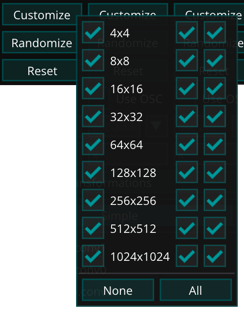
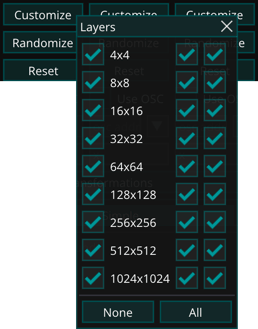
feat: add a title bar with a close button to the layer grid

Changed region(s): [[0.0, 0.0, 1.0, 1.0]]

diff --git a/widgets/adjuster_widget.py b/widgets/adjuster_widget.py
@@ -11,7 +11,7 @@ import threading
 import imgui
 import torch
 
-from assets import ACTIVE_RED
+from assets import ACTIVE_RED, OPAQUEGREEN
 
 try:
     import cPickle as pickle
@@ -343,7 +343,17 @@ class AdjusterWidget:
 
     def _zone_popup(self, i, enabled):
         slot = self.slots[i]
-        if not imgui.begin_popup(f"zone_layers{i}"):
+        mouse = imgui.get_mouse_position()
+        imgui.set_next_window_position(mouse.x, mouse.y,
+                                       condition=imgui.APPEARING)
+        imgui.push_style_color(imgui.COLOR_TITLE_BACKGROUND, *OPAQUEGREEN)
+        imgui.push_style_color(imgui.COLOR_TITLE_BACKGROUND_ACTIVE, *OPAQUEGREEN)
+        imgui.push_style_color(imgui.COLOR_TITLE_BACKGROUND_COLLAPSED, *OPAQUEGREEN)
+        opened, visible = imgui_utils.begin_popup_modal(
+            f"Layers##zone{i}", visible=True,
+            flags=imgui.WINDOW_NO_RESIZE | imgui.WINDOW_ALWAYS_AUTO_RESIZE)
+        imgui.pop_style_color(3)
+        if not opened:
             return
         num_ws = max(1, self._current_num_ws())
         labels = block_labels(num_ws)
@@ -354,6 +364,7 @@ class AdjusterWidget:
         label_col = (frame + 2 * spacing
                      + max(imgui.calc_text_size(label).x for label in labels)
                      + spacing)
+        content_w = label_col + 2 * frame + spacing
         for b, label in enumerate(labels):
             first = 2 * b
             if first >= num_ws:
@@ -379,7 +390,6 @@ class AdjusterWidget:
                     slot["layers"] = list(layers)
                     self._sync_zone(i)
         imgui.separator()
-        content_w = label_col + 2 * frame + spacing
         half = (content_w - spacing) / 2
         if imgui_utils.button(f"None##zone{i}", width=half, enabled=enabled):
             slot["layers"] = [False] * num_ws
@@ -388,6 +398,8 @@ class AdjusterWidget:
         if imgui_utils.button(f"All##zone{i}", width=half, enabled=enabled):
             slot["layers"] = [True] * num_ws
             self._sync_zone(i)
+        if not visible:
+            imgui.close_current_popup()
         imgui.end_popup()
 
     def _slot_osc(self, i, enabled, slot_w):
@@ -475,7 +487,7 @@ class AdjusterWidget:
             if imgui_utils.button(f"Customize##slot{i}", width=button_w,
                                   enabled=enabled):
                 self._seed_layers(i)
-                imgui.open_popup(f"zone_layers{i}")
+                imgui.open_popup(f"Layers##zone{i}")
             self._zone_popup(i, enabled)
             if imgui_utils.button(f"Randomize##slot{i}", width=button_w,
                                   enabled=enabled):

diff --git a/utils/gui_utils/imgui_utils.py b/utils/gui_utils/imgui_utils.py
@@ -196,6 +196,35 @@ def popup_button(label, width=0, enabled=True):
 
 # ----------------------------------------------------------------------------
 
+def begin_popup_modal(title, visible=True, flags=0, dim_background=False,
+                      clamp_to_display=True, close_on_click_away=True):
+    """imgui.begin_popup_modal that by default keeps the window on screen,
+    does not dim the background, and closes on a click outside it."""
+    if not dim_background:
+        imgui.push_style_color(imgui.COLOR_MODAL_WINDOW_DIM_BACKGROUND,
+                               0, 0, 0, 0)
+    opened, visible = imgui.begin_popup_modal(title, visible=visible,
+                                              flags=flags)
+    if not dim_background:
+        imgui.pop_style_color()
+    if opened and clamp_to_display:
+        display = imgui.get_io().display_size
+        pos = imgui.get_window_position()
+        size = imgui.get_window_size()
+        x = min(max(pos.x, 0), max(0, display.x - size.x))
+        y = min(max(pos.y, 0), max(0, display.y - size.y))
+        if x != pos.x or y != pos.y:
+            # New windows stay hidden for a frame while imgui sizes them,
+            # so clamping here lands before the popup is ever shown.
+            imgui.set_window_position(x, y)
+    if (opened and close_on_click_away and not imgui.is_window_appearing()
+            and imgui.is_mouse_clicked(0) and not imgui.is_window_hovered()):
+        imgui.close_current_popup()
+    return opened, visible
+
+
+# ----------------------------------------------------------------------------
+
 def input_text(label, value, buffer_length, flags, width=None, help_text=''):
     old_value = value
     color = list(imgui.get_style().colors[imgui.COLOR_TEXT])
